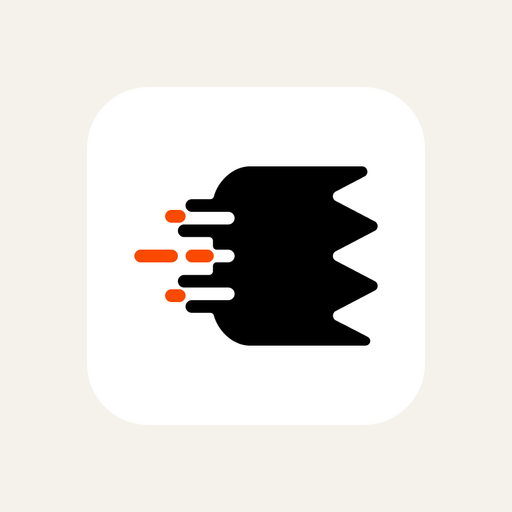
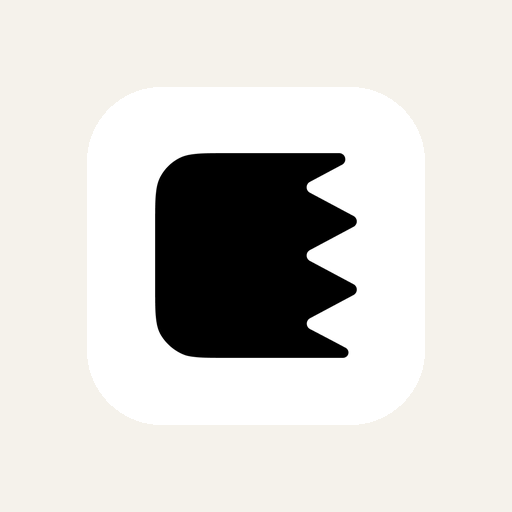
brand: OS wears the Counterfoil marque, Go keeps the streaks
The orange motion streaks ARE the Counterfoil Go identity. They were on the OS
sidebar, the landing page, sign-in, the browser favicon and every installed-app
icon, which branded the whole platform as the till.

- New artwork for the platform lockup and the plain foil mark, derived from the
  brand asset in the counterfoil-pos reference: the foil WITHOUT streaks, plus
  the drawn lowercase wordmark. OS was previously setting 'Counterfoil' in
  Manrope extrabold with a capital C — a lookalike, not the logotype.
- Logo renders real artwork for both marques with light and dark variants, and
  its doc comment now says plainly which surface gets which.
- LogoMark, the browser favicon and the PWA icons (192/512/maskable) all move
  to the plain mark. The manifest is named 'Counterfoil' and starts at the
  landing page, so its icon is the platform's, not the till's.
- The Go lockup stays exactly where it belongs: (go)/layout.

Service worker cache bumped to v3 so installed tills pick up the new icons.

Claude-Session: https://claude.ai/code/session_016ymMU6ANxzJkPpnombytcc

Changed region(s): [[0.25, 0.2812, 0.75, 0.7188]]

diff --git a/src/components/ui/Logo.tsx b/src/components/ui/Logo.tsx
@@ -1,40 +1,46 @@
 import { cn } from "@/lib/cn";
-import { LogoMark } from "./LogoMark";
 
 /**
- * The Counterfoil logo lockup.
- * - `variant="go"` renders the real "counterfoil GO" horizontal lockup image
- *   (front-of-house), mode-aware (black in light, white in dark).
- * - otherwise: the foil mark + "Counterfoil" wordmark, with an optional quiet
- *   OS badge for the admin surface. `size` is the mark/lockup height in px.
+ * The Counterfoil logo lockups.
+ *
+ * Two marques, and they are not interchangeable:
+ *
+ * - **Counterfoil** — the plain foil + lowercase wordmark. The platform, and
+ *   therefore OS, the landing page and sign-in.
+ * - **Counterfoil Go** — the same foil with orange motion streaks, plus the GO
+ *   marque. Front-of-house ONLY. The streaks *are* the Go identity, so putting
+ *   them on OS brands the admin surface as the till.
+ *
+ * Both are real artwork rather than a font approximation: the wordmark is a
+ * drawn logotype and setting "Counterfoil" in a bold sans is a lookalike, not
+ * the logo.
  */
 export function Logo({
   variant,
   size = 32,
   className,
 }: {
+  /** "go" for the front-of-house lockup; anything else is the platform mark. */
   variant?: "os" | "go";
+  /** Lockup height in px. */
   size?: number;
   className?: string;
 }) {
-  if (variant === "go") {
-    return (
-      <span className={cn("inline-flex items-center", className)}>
-        {/* eslint-disable-next-line @next/next/no-img-element */}
-        <img src="/logo-go.png" alt="Counterfoil Go" style={{ height: size }} className="w-auto dark:hidden" />
-        {/* eslint-disable-next-line @next/next/no-img-element */}
-        <img src="/logo-go-dark.png" alt="Counterfoil Go" style={{ height: size }} className="hidden w-auto dark:block" />
-      </span>
-    );
-  }
+  const isGo = variant === "go";
+  const src = isGo ? "/logo-go.png" : "/logo-counterfoil.png";
+  const darkSrc = isGo ? "/logo-go-dark.png" : "/logo-counterfoil-dark.png";
+  const alt = isGo ? "Counterfoil Go" : "Counterfoil";
+
   return (
-    <span className={cn("inline-flex items-center", className)} style={{ gap: Math.round(size * 0.32) }}>
-      <LogoMark size={size} />
-      <span className="font-extrabold leading-none tracking-tight" style={{ fontSize: Math.round(size * 0.72) }}>
-        Counterfoil
-      </span>
+    <span className={cn("inline-flex items-center gap-tight", className)}>
+      {/* eslint-disable-next-line @next/next/no-img-element */}
+      <img src={src} alt={alt} style={{ height: size }} className="w-auto dark:hidden" />
+      {/* eslint-disable-next-line @next/next/no-img-element */}
+      <img src={darkSrc} alt={alt} style={{ height: size }} className="hidden w-auto dark:block" />
       {variant === "os" && (
-        <span className="ml-0.5 self-start font-mono text-[11px] uppercase tracking-wide text-faint">OS</span>
+        <span className="self-center font-mono text-[11px] uppercase tracking-wide text-faint">
+          OS
+        </span>
       )}
     </span>
   );

diff --git a/src/components/ui/LogoMark.tsx b/src/components/ui/LogoMark.tsx
@@ -1,7 +1,8 @@
 import { cn } from "@/lib/cn";
 
-// The Counterfoil "foil" mark (the real brand icon). Mode-aware: the black
-// foil in light mode, a white foil in dark mode (both keep the ember streaks).
+/* The Counterfoil foil mark — the PLAIN one, without the orange motion
+   streaks. The streaks belong to Counterfoil Go and would brand every surface
+   that used this as the till. Mode-aware: black foil in light, white in dark. */
 export function LogoMark({ size = 32, className }: { size?: number; className?: string }) {
   return (
     <span
@@ -10,9 +11,9 @@ export function LogoMark({ size = 32, className }: { size?: number; className?: 
       aria-hidden
     >
       {/* eslint-disable-next-line @next/next/no-img-element */}
-      <img src="/mark.png" alt="" className="absolute inset-0 h-full w-full object-contain dark:hidden" />
+      <img src="/mark-plain.png" alt="" className="absolute inset-0 h-full w-full object-contain dark:hidden" />
       {/* eslint-disable-next-line @next/next/no-img-element */}
-      <img src="/mark-dark.png" alt="" className="absolute inset-0 hidden h-full w-full object-contain dark:block" />
+      <img src="/mark-plain-dark.png" alt="" className="absolute inset-0 hidden h-full w-full object-contain dark:block" />
     </span>
   );
 }

diff --git a/public/sw.js b/public/sw.js
@@ -1,7 +1,7 @@
 // F10 app-shell service worker. Shell only: hashed build assets and fonts are
 // cached first-hit so the app opens instantly; navigations stay network-first
 // (offline DATA is deferred and out of scope — this is not offline mode).
-const SHELL_CACHE = "counterfoil-shell-v2";
+const SHELL_CACHE = "counterfoil-shell-v3";
 
 self.addEventListener("install", (event) => {
   self.skipWaiting();
